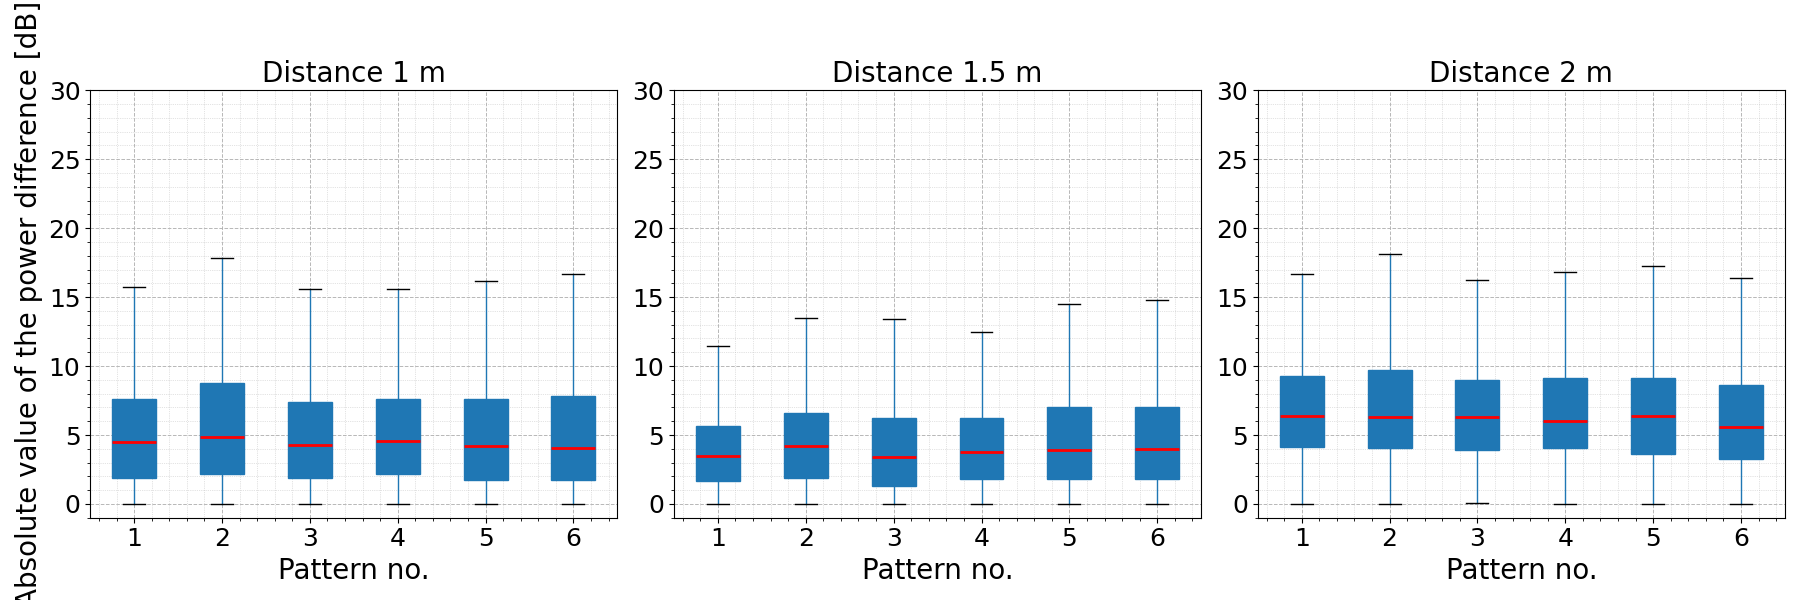
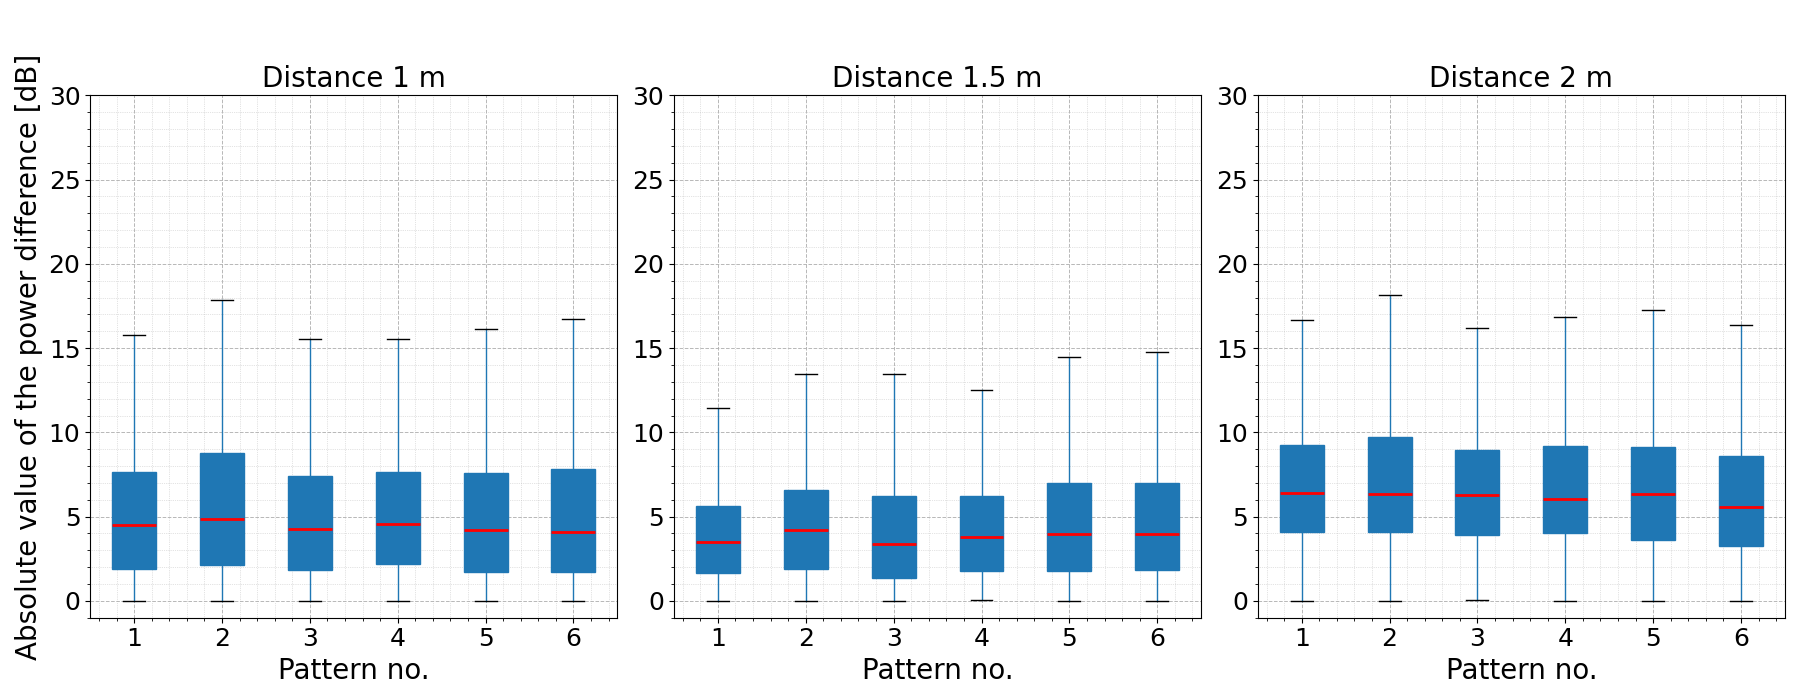
PUDEŁKO

diff --git a/metryki_porownywanie/metryki_boxploty/Box_Plot/boxplot_aritcle.py b/metryki_porownywanie/metryki_boxploty/Box_Plot/boxplot_aritcle.py
@@ -21,7 +21,7 @@ def tworz_subploty_wykresow(plik_csv_lista, wybrane_patterny, folder_wynikowy):
         max_moc = max(max_moc, df_wybrane["moc"].max())
 
     for indeks, grupa in enumerate(grupy):
-        plt.figure(figsize=(18, 6))
+        plt.figure(figsize=(18, 7))
 
         for i, plik_csv in enumerate(grupa):
             kolumny = ["kąt1", "kąt2", "pattern", "częstotliwość", "moc"]
